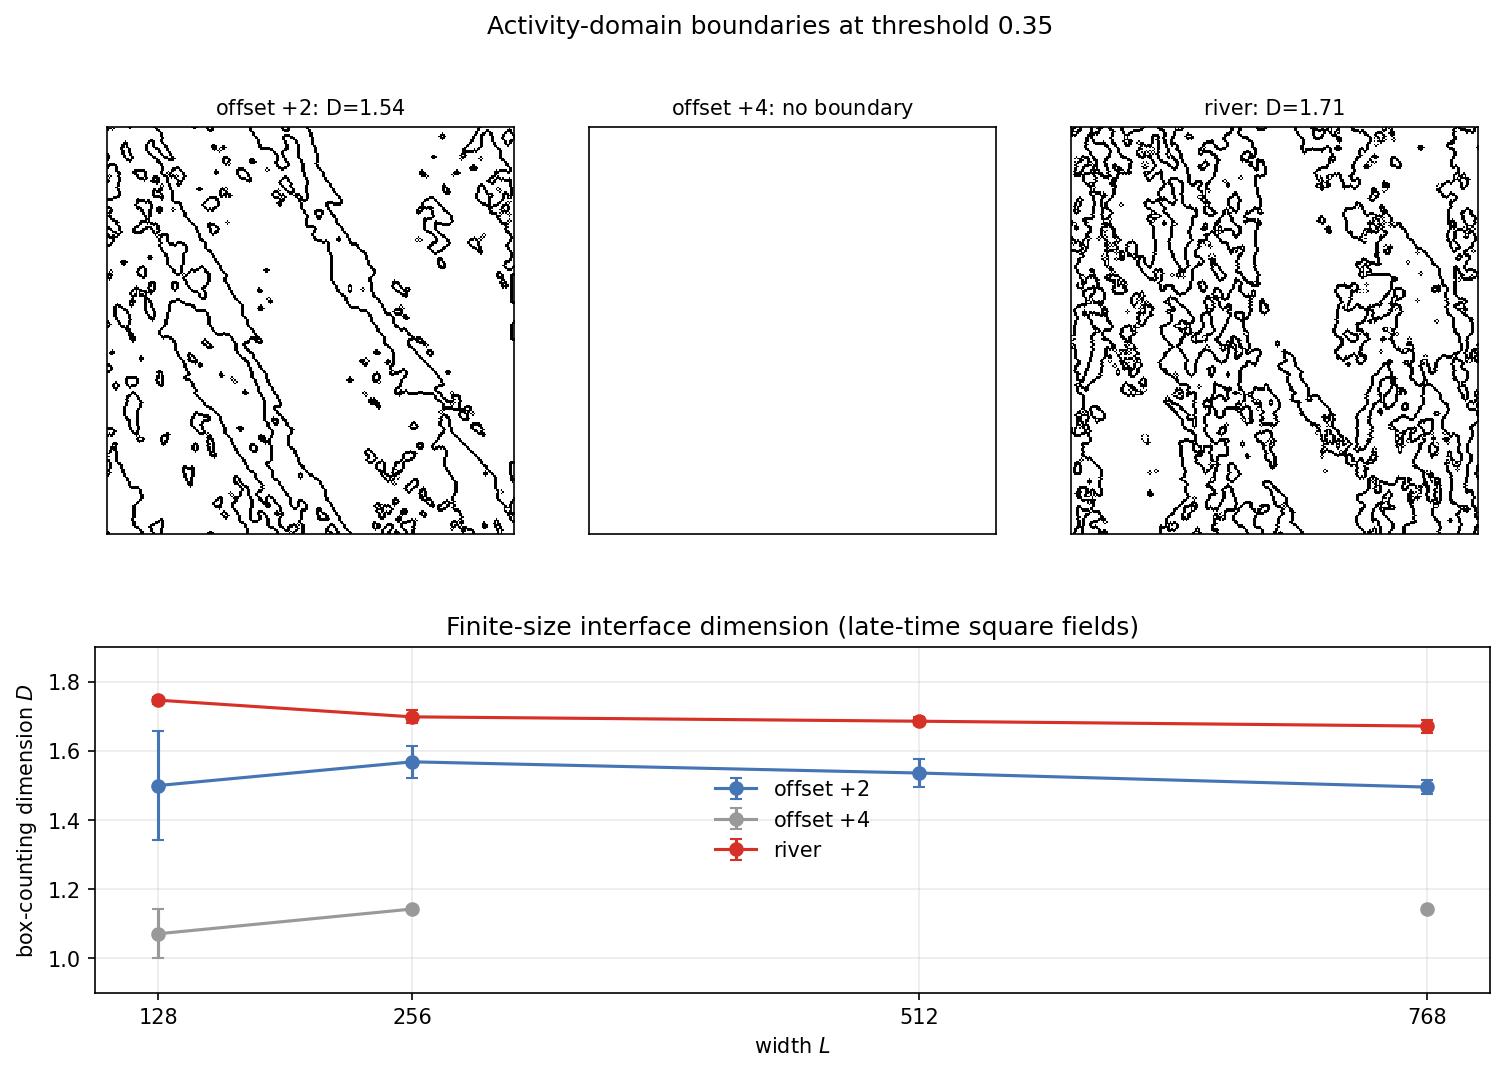
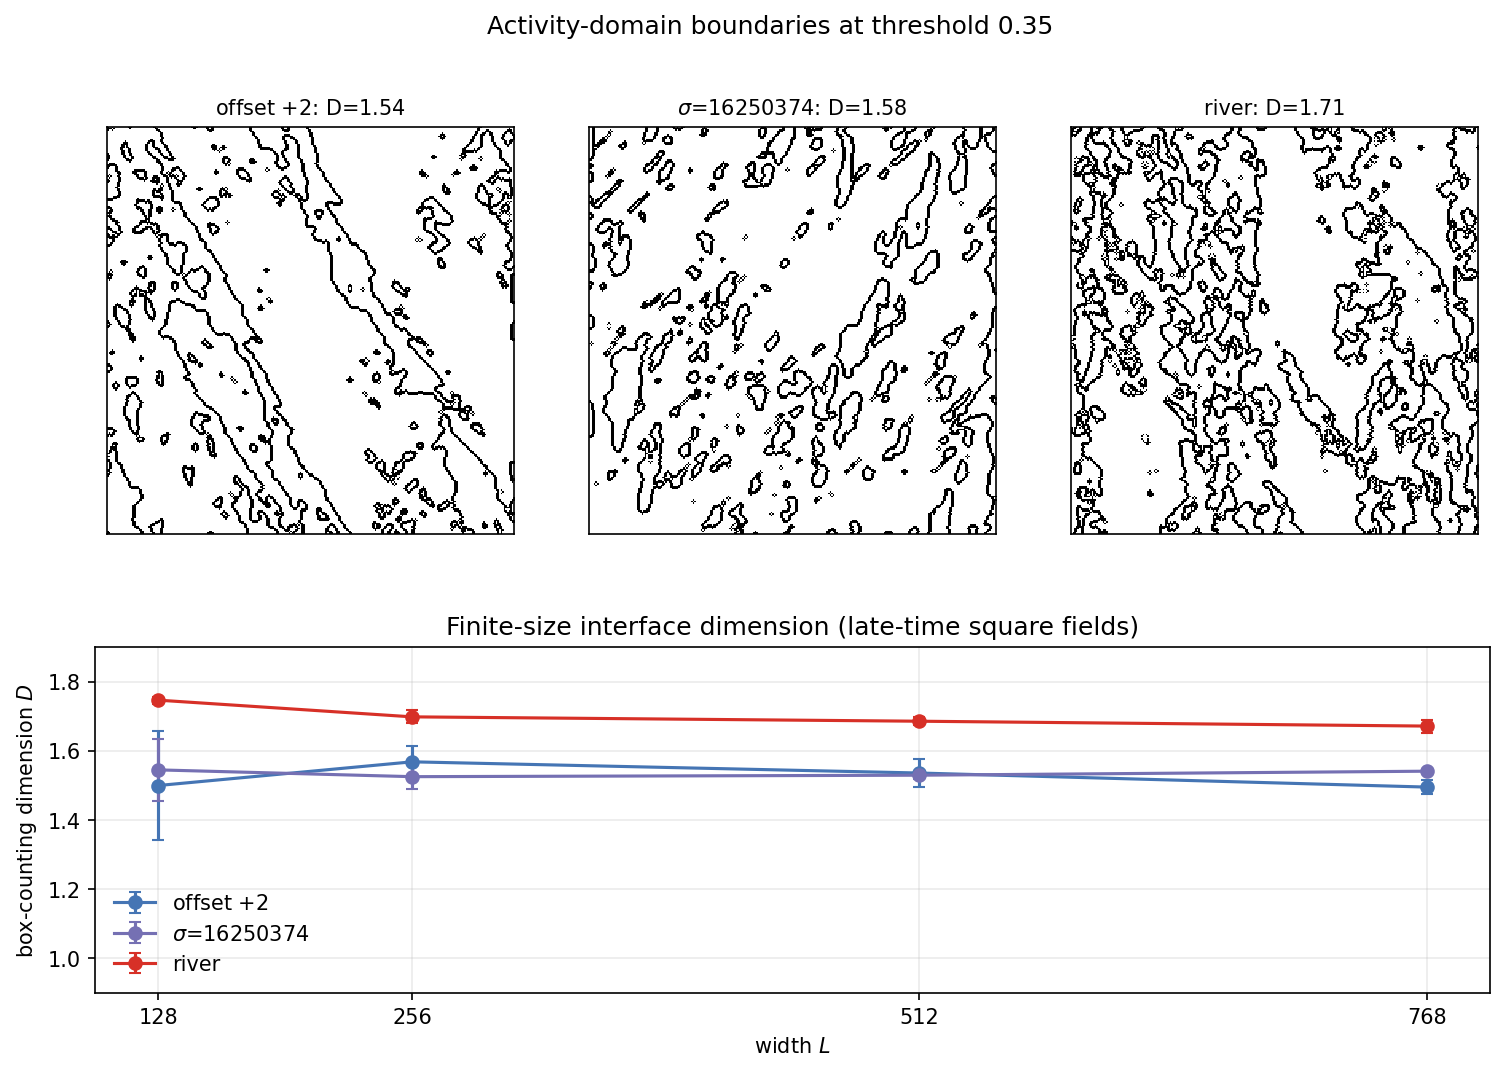
paper: Figure 10 — sigma replaces collapsed offset+4; boundary-mass caption
Regenerated fig:interface (mmca-clj 660e946): panels are now offset+2 (D~1.54),
sigma=16250374 (D~1.58), river (D~1.71); D(L) shows offset+2 ~ sigma overlapping
and size-stable, river distinctly above. Caption reframed around the boundary
MASS as the edge-of-chaos measure -- offset+2 and sigma comparable, river
distinctly denser, collapsed operators (offset+4) carry none. Task 1 of Joe's
two-step (figure first, item-5 rewrite next). Builds clean: 31pp.

diff --git a/holes/tech-notes/paper/draft3.tex b/holes/tech-notes/paper/draft3.tex
@@ -840,15 +840,15 @@ itself separate complex from chaotic, a known-hard distinction.}
 \begin{figure}[tb]
 \centering
 \includegraphics[width=\linewidth]{figures/eoc_interface.png}
-\caption{\textbf{The spacetime activity boundary is fractal-like and size-stable
-for the sustaining operators.} Top: the boundary (black) between low- and
-high-activity regions traced through the $1{+}1$-dimensional spacetime diagram at
-$L = 256$. offset $+2$ carries a coherent boundary (box-counting
-$D \approx 1.54$); offset $+4$ has collapsed (no boundary); the phenotype-reading
-river carries a denser one ($D \approx 1.71$). Bottom: box-counting dimension
-(box sizes $2$--$64$) against width $L$; over the tested range the estimate is
-stable rather than drifting. Exploratory: a handful of seeds, fixed-boundary
-variant.}
+\caption{\textbf{The edge of chaos is the domain-wall boundary, and its mass is
+the measure.} Top: the boundary (black) between low- and high-activity regions
+traced through the $1{+}1$-dimensional spacetime diagram at $L = 256$. offset
+$+2$ and $\sigma = 16250374$ carry fractal boundaries of comparable mass and
+dimension ($D \approx 1.5$--$1.6$); the phenotype-coupled river carries a
+distinctly denser one ($D \approx 1.71$). Collapsed operators (e.g.\ offset
+$+4$) carry no boundary at all. Bottom: box-counting dimension (box sizes
+$2$--$64$) against width $L$; the estimate is size-stable rather than drifting.
+Exploratory: a handful of seeds, fixed-boundary variant.}
 \label{fig:interface}
 \end{figure}
 
